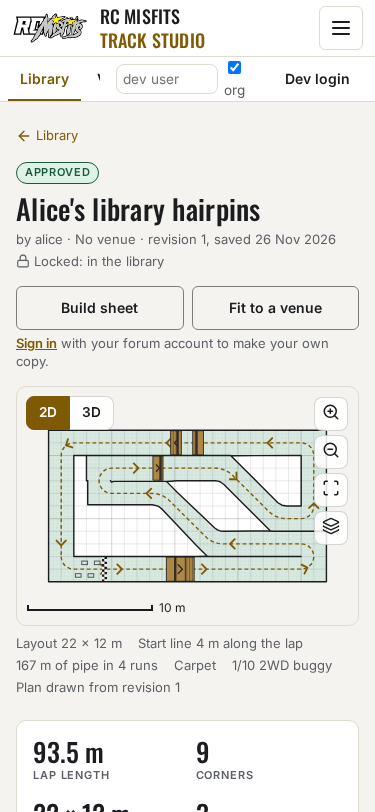
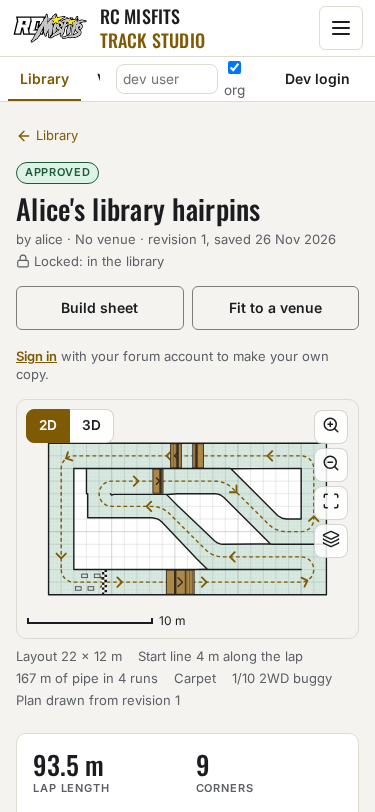
Review fixes: the phone tap area stays clear of the buttons; clearer guide wording; retaken screenshots (#180)

Changed region(s): [[0.0293, 0.4002, 0.9387, 1.0], [0.528, 0.8929, 0.6747, 1.0]]

diff --git a/apps/web/src/styles.css b/apps/web/src/styles.css
@@ -854,8 +854,8 @@ select.ts-input { padding: 0 var(--space-2); }
   .ts-filters .ts-btn, .ts-filters .ts-input { min-height: var(--touch-target); }
   .ts-track-head__title { flex-direction: column-reverse; align-items: flex-start; gap: var(--space-2); }
   .ts-actions-wrap, .ts-actions { width: 100%; }
-  /* a full touch target without spreading the lines: padded, the padding taken back out of the line */
-  .ts-signin-hint a { display: inline-block; padding-block: calc((var(--touch-target) - 18px) / 2); margin-block: calc((18px - var(--touch-target)) / 2); }
+  /* a full touch target: the space above it is real (so it stays clear of the buttons), the padding below is taken back out */
+  .ts-signin-hint a { display: inline-block; padding-block: calc((var(--touch-target) - 1lh) / 2); margin-block-end: calc((1lh - var(--touch-target)) / 2); }
   .ts-actions { display: grid; grid-template-columns: repeat(2, minmax(0, 1fr)); }
   .ts-actions .ts-btn { height: var(--touch-target); white-space: normal; text-align: center; line-height: 18px; }
   .ts-actions .ts-btn--primary { grid-column: 1 / -1; order: -1; }

diff --git a/apps/web/e2e/signin-copy.e2e.ts b/apps/web/e2e/signin-copy.e2e.ts
@@ -132,7 +132,11 @@ test.describe("signed out on a layout's page", () => {
     // the hint sits in the actions block, in view, and on a phone its link is a full touch target
     const link = hint.getByRole("link", { name: "Sign in" });
     await expect(link).toBeInViewport();
-    if (info.project.name === "phone") expect((await link.boundingBox())!.height).toBeGreaterThanOrEqual(44);
+    // and its tap area stays clear of the buttons above, so a tap on a button's edge isn't a sign-in
+    const box = (await link.boundingBox())!;
+    const buttons = (await page.getByRole("group", { name: "Track actions" }).boundingBox())!;
+    expect(box.y).toBeGreaterThanOrEqual(buttons.y + buttons.height);
+    if (info.project.name === "phone") expect(box.height).toBeGreaterThanOrEqual(44);
     if (SHOTS) await page.screenshot({ path: `${SHOTS}/signed-out-${info.project.name}.png` });
 
     await link.click();

diff --git a/docs/guide/README.md b/docs/guide/README.md
@@ -604,7 +604,7 @@ To change an approved layout, select **Copy and edit**. You get your own draft c
 
 A **draft** is private: only you and the organisers can see it. It isn't in the library for anyone else, and its link shows "Not found" to them. When you **Submit** it, it becomes public; submitted and approved layouts can be seen by anyone, signed in or not. If you edit a submitted layout it is a draft, and private, again until you submit it. A layout a meeting uses is always public. An archived layout that was never approved stays private.
 
-Only the author and organisers can edit a layout. Any other signed-in member is offered **Make my own copy** of a public one. Signed out, a layout's page says so beside its buttons: select **Sign in** there and you come back to the layout, ready to copy it.
+Only the author and organisers can edit a layout. Any other signed-in member is offered **Make my own copy** of a public one. Signed out, a layout's page says that signing in lets you copy it: select **Sign in** beside its buttons and you come back to the layout, ready to copy it.
 
 ### Voting
 
